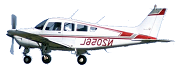
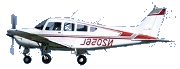
plane flies over

diff --git a/app/scripts/game.js b/app/scripts/game.js
@@ -63,6 +63,7 @@ window.Game = (function() {
 	 * Starts a new game.
 	 */
 	Game.prototype.start = function() {
+		var plane = this.el.find('.Plane');
 		var ground = this.el.find('.Ground');
 		var sky = this.el.find('.Sky');
 		var wings = this.el.find('.Player-wings');
@@ -78,6 +79,7 @@ window.Game = (function() {
 		ground.css('animation-play-state', 'running');
 		sky.css('animation-play-state', 'running');
 		wings.css('animation-play-state', 'running');
+		plane.css('animation-play-state', 'running');
 	};
 
 	/**
@@ -101,10 +103,13 @@ window.Game = (function() {
 		var ground = this.el.find('.Ground');
 		var sky = this.el.find('.Sky');
 		var wings = this.el.find('.Player-wings');
+		var plane = this.el.find('.Plane');
 		
 		ground.css('animation-play-state', 'paused');
 		sky.css('animation-play-state', 'paused');
 		wings.css('animation-play-state', 'paused');
+		plane.css('animation-play-state', 'paused');
+
 
 		if(this.player.score > this.player.highScore) {
 			this.player.highScore = this.player.score;

diff --git a/app/styles/_background.scss b/app/styles/_background.scss
@@ -6,6 +6,7 @@
   right: 0;
   height: 50em;
   width: 500%;
+  transform: translateZ(0);
   animation: clouds 15s linear infinite;
   z-index: 1;
 }
@@ -13,7 +14,7 @@
 @keyframes clouds
 {
   0%   {
-    left:0;
+    right: 0;
   }
   100% {
     left:-20em;
@@ -52,5 +53,27 @@
   }
   100% {
     transform: translate3d(-4em, 0, 0);
+  }
+}
+
+.Plane {
+  background: url(../images/plane.png);
+  background-repeat: no-repeat;
+  width:20em;
+  height:10em;
+  top: 5em;
+  position: absolute;  
+  right: 0;
+  z-index: 2;
+  transform: translateZ(0);
+  animation: plane 18s linear infinite;
+}
+
+@keyframes plane {
+  0% {
+    right: -20em;
+  }
+  100% {
+    right: 120em;
   }
 }

diff --git a/app/index.html b/app/index.html
@@ -56,6 +56,7 @@
                 </div>
             </div>
 
+            <div class="Plane"></div>
             <div class="Sky"></div>
             <div class="Ground"></div>
             <div class="Grass"></div>

diff --git a/app/styles/_player.scss b/app/styles/_player.scss
@@ -7,6 +7,7 @@
   width: 12em;
   height: 6.7em;
   background: url(../images/raven.png);
+  background-repeat: no-repeat;
   z-index: 5;
 }
 
